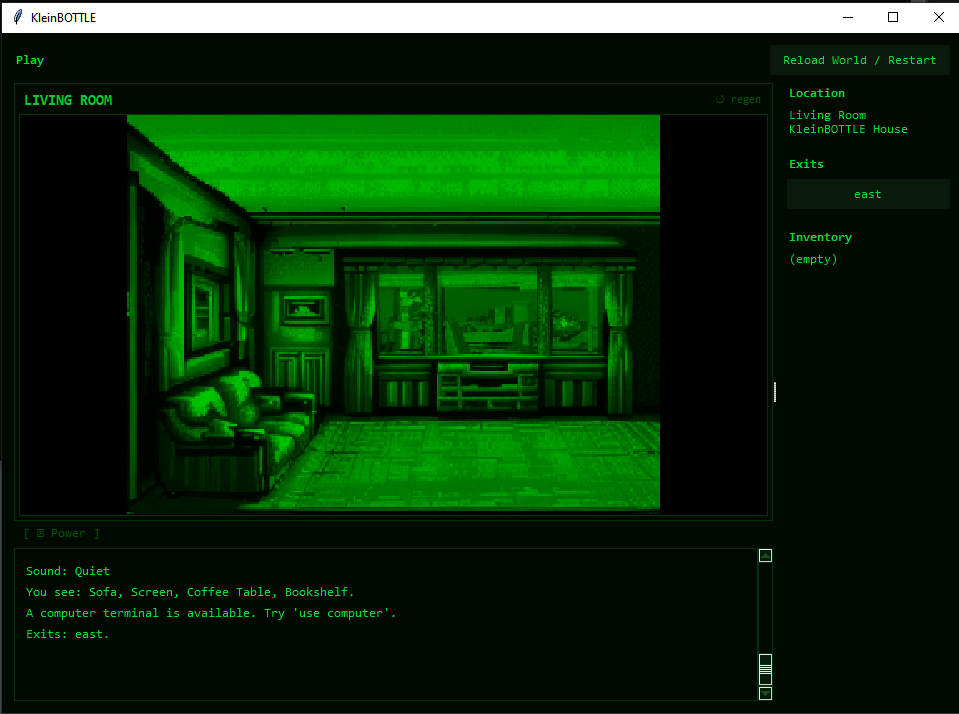
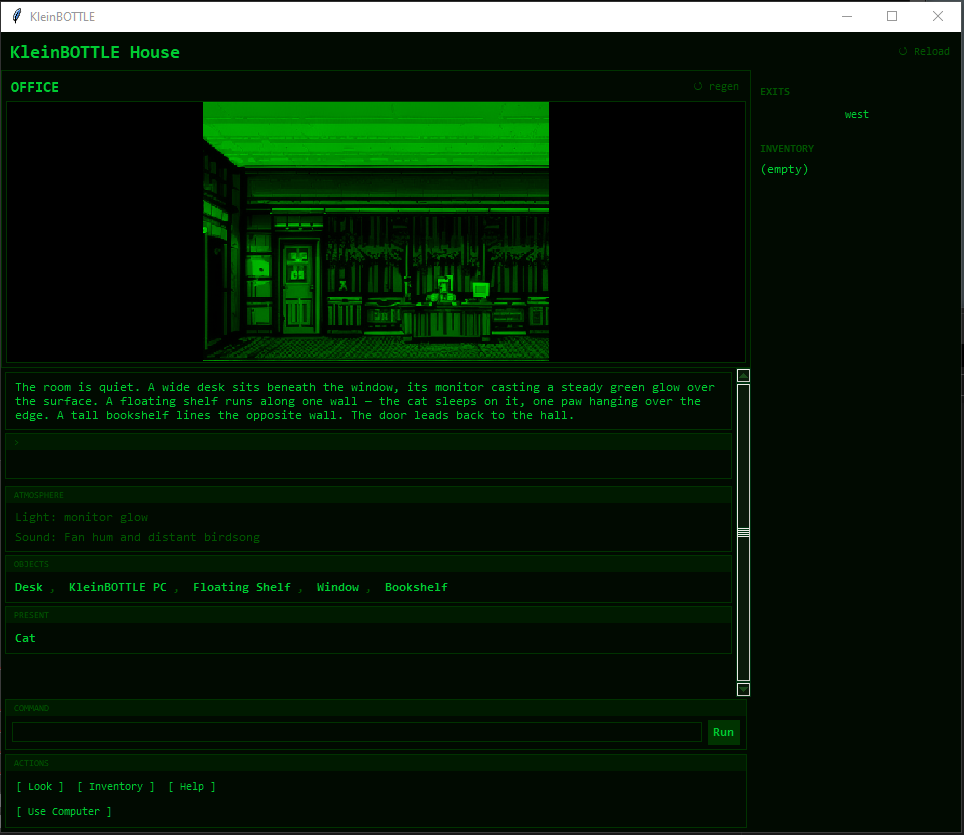
feat: add image-generation-pipeline submodule + Image Generator app in KleinPC
- Add tools/image-pipeline as git submodule (github.com/jacobmentalconstruct/image-generation-pipeline)
- kleinos/image_gen_pane.py: new ImageGenPane + ImageGenerator KleinApp
  - Prompt entry, style selector (default/kleinbottle/projectmapper), Generate button
  - Background thread worker via pipeline/client.py + pipeline/styles.py
  - PIL image display on canvas with resize handling
  - Saves output to data/generated/
- kleinos/__main__.py: register ImageGenerator in KleinPC apps list
- kleinos/room_panel.py: fall back to submodule path when config path is unset
- kleinos/config.py: set image_pipeline github_url to actual repo
- assets/logos/klein-bottle-logo.jpg: add real KleinBOTTLE logo
- assets/screenshots: update splash, living-room; add klein-invaders, nesting-dolls

diff --git a/kleinos/image_gen_pane.py b/kleinos/image_gen_pane.py
@@ -1,0 +1,201 @@
+"""
+kleinos/image_gen_pane.py
+
+In-PC image generator — KleinApp that wraps the image-generation-pipeline
+submodule (tools/image-pipeline/) with a simple GUI.
+
+Prompt input → style selector → Generate button → live status → image display.
+"""
+from __future__ import annotations
+
+import shutil
+import sys
+import threading
+import tkinter as tk
+from pathlib import Path
+from typing import Optional
+
+from kleinos.klein_app import KleinApp
+from kleinos.room_panel import _pipeline_root
+
+try:
+    from PIL import Image as _PilImage, ImageTk as _PilImageTk  # type: ignore[import-untyped]
+    _NEAREST = getattr(getattr(_PilImage, "Resampling", _PilImage), "NEAREST", 0)
+    _PILLOW = True
+except ImportError:
+    _PilImage = _PilImageTk = None  # type: ignore[assignment]
+    _NEAREST = 0
+    _PILLOW = False
+
+_BG     = "#010a01"
+_BORDER = "#003300"
+_FG     = "#00cc33"
+_DIM    = "#005500"
+_HDR_BG = "#001a00"
+
+_OUT_DIR = Path(__file__).resolve().parent.parent / "data" / "generated"
+_STYLES  = ("default", "kleinbottle", "projectmapper")
+
+
+def _mk_btn(parent: tk.Widget, text: str, command, fg: str = _FG) -> tk.Button:
+    return tk.Button(
+        parent, text=text, bg=_BG, fg=fg,
+        activebackground="#001a00", activeforeground=_FG,
+        relief="flat", font=("Consolas", 9, "bold"),
+        cursor="hand2", command=command,
+    )
+
+
+class ImageGenPane(tk.Frame):
+    """Full image-generator panel for embedding in the KleinPC content area."""
+
+    def __init__(self, parent: tk.Widget, on_exit=None):
+        super().__init__(parent, bg=_BG)
+        self._on_exit = on_exit
+        self._photo: Optional[object] = None
+        self._busy  = False
+        self._build()
+
+    def _build(self) -> None:
+        # ── Header ────────────────────────────────────────────────────
+        hdr = tk.Frame(self, bg=_HDR_BG)
+        hdr.pack(fill="x")
+        tk.Label(hdr, text=" IMAGE GENERATOR ", bg=_HDR_BG, fg=_FG,
+                 font=("Consolas", 10, "bold")).pack(side="left", padx=8, pady=6)
+
+        # ── Prompt row ────────────────────────────────────────────────
+        pr = tk.Frame(self, bg=_BG)
+        pr.pack(fill="x", padx=8, pady=(10, 4))
+        tk.Label(pr, text="PROMPT", bg=_BG, fg=_DIM,
+                 font=("Consolas", 8)).pack(anchor="w")
+        self._prompt_var = tk.StringVar()
+        tk.Entry(
+            pr, textvariable=self._prompt_var,
+            bg=_BG, fg=_FG, insertbackground=_FG,
+            font=("Consolas", 9), relief="flat",
+            highlightthickness=1, highlightbackground=_BORDER,
+            highlightcolor=_FG,
+        ).pack(fill="x", pady=(2, 0))
+
+        # ── Style + Generate row ──────────────────────────────────────
+        ctrl = tk.Frame(self, bg=_BG)
+        ctrl.pack(fill="x", padx=8, pady=4)
+        tk.Label(ctrl, text="STYLE", bg=_BG, fg=_DIM,
+                 font=("Consolas", 8)).pack(side="left")
+        self._style_var = tk.StringVar(value="kleinbottle")
+        style_menu = tk.OptionMenu(ctrl, self._style_var, *_STYLES)
+        style_menu.configure(
+            bg=_BG, fg=_FG, activebackground=_HDR_BG, activeforeground=_FG,
+            highlightthickness=0, relief="flat", font=("Consolas", 9),
+        )
+        style_menu["menu"].configure(bg=_BG, fg=_FG, activebackground=_HDR_BG)
+        style_menu.pack(side="left", padx=(6, 16))
+        self._gen_btn = _mk_btn(ctrl, "[ Generate ]", self._generate)
+        self._gen_btn.pack(side="left")
+
+        # ── Status ────────────────────────────────────────────────────
+        self._status_var = tk.StringVar(value="Ready.")
+        tk.Label(self, textvariable=self._status_var,
+                 bg=_BG, fg=_DIM, font=("Consolas", 8),
+                 anchor="w").pack(fill="x", padx=10, pady=(0, 4))
+
+        # ── Image canvas ──────────────────────────────────────────────
+        self._canvas = tk.Canvas(self, bg="#000000",
+                                 highlightthickness=1, highlightbackground=_BORDER)
+        self._canvas.pack(fill="both", expand=True, padx=8, pady=(0, 8))
+        self._canvas.bind("<Configure>", self._on_resize)
+
+    # ── Generation ────────────────────────────────────────────────────
+
+    def _generate(self) -> None:
+        prompt = self._prompt_var.get().strip()
+        if not prompt:
+            self._status("Enter a prompt first.")
+            return
+        if self._busy:
+            self._status("Already generating…")
+            return
+        self._busy = True
+        self._gen_btn.configure(state="disabled")
+        self._status("Queuing…")
+        threading.Thread(
+            target=self._worker,
+            args=(prompt, self._style_var.get()),
+            daemon=True,
+        ).start()
+
+    def _worker(self, prompt: str, style: str) -> None:
+        import uuid
+        try:
+            root = _pipeline_root()
+            if str(root) not in sys.path:
+                sys.path.insert(0, str(root))
+            from pipeline.client import collect_images, queue_prompt, wait_for_completion  # type: ignore[import]
+            from pipeline.styles import build_workflow  # type: ignore[import]
+
+            self.after(0, lambda: self._status("Building workflow…"))
+            workflow, _ = build_workflow(prompt, style)
+            pid = queue_prompt(workflow, str(uuid.uuid4()))
+            self.after(0, lambda: self._status(f"Generating (id={pid[:8]}…)"))
+            result = wait_for_completion(pid, timeout=300.0)
+
+            _OUT_DIR.mkdir(parents=True, exist_ok=True)
+            tmp = _OUT_DIR / "_tmp"
+            tmp.mkdir(exist_ok=True)
+            saved = collect_images(result, tmp)
+            if saved:
+                dest = _OUT_DIR / saved[0].name
+                shutil.move(str(saved[0]), str(dest))
+                self.after(0, lambda p=dest: self._show(p))
+                self.after(0, lambda: self._status(f"Saved → {dest.name}"))
+            else:
+                self.after(0, lambda: self._status("No image returned."))
+        except Exception as exc:
+            msg = str(exc)[:120]
+            self.after(0, lambda: self._status(f"Error: {msg}"))
+        finally:
+            self._busy = False
+            self.after(0, lambda: self._gen_btn.configure(state="normal"))
+
+    # ── Display ───────────────────────────────────────────────────────
+
+    def _show(self, path: Path) -> None:
+        if not _PILLOW:
+            self._status("Pillow not installed — pip install pillow")
+            return
+        try:
+            w = self._canvas.winfo_width()
+            h = self._canvas.winfo_height()
+            if w < 2 or h < 2:
+                self.after(50, lambda: self._show(path))
+                return
+            img = _PilImage.open(path)  # type: ignore[union-attr]
+            iw, ih = img.size
+            scale = min(w / iw, h / ih)
+            img = img.resize((int(iw * scale), int(ih * scale)), _NEAREST)  # type: ignore[union-attr]
+            self._photo = _PilImageTk.PhotoImage(img)  # type: ignore[union-attr]
+            self._canvas.delete("all")
+            self._canvas.create_image(w // 2, h // 2, anchor="center", image=self._photo)
+            self._last_path = path
+        except Exception as exc:
+            self._status(f"Display error: {exc}")
+
+    def _on_resize(self, _=None) -> None:
+        if hasattr(self, "_last_path") and self._last_path:
+            self._show(self._last_path)
+
+    def _status(self, text: str) -> None:
+        self._status_var.set(text)
+
+
+# ── KleinApp registration ─────────────────────────────────────────────
+
+class ImageGenerator(KleinApp):
+    title       = "Image Generator"
+    description = "Generate images with ComfyUI via the KleinBOTTLE pipeline."
+
+    def commands(self):  # type: ignore[override]
+        return []
+
+    def create(self, parent: tk.Widget, on_exit) -> tk.Widget:  # type: ignore[override]
+        return ImageGenPane(parent, on_exit=on_exit)

diff --git a/kleinos/__main__.py b/kleinos/__main__.py
@@ -22,6 +22,7 @@ from kleinos.game_pane import SpaceInvaders
 from kleinos.kb_surfaces import WorldBuilder, TextAdventure, KleinAdventurePane
 from kleinos.adventure import TheShack
 from kleinos.mahisland import MAHisLAND
+from kleinos.image_gen_pane import ImageGenerator
 from kleinos.palette import BG as _BG, GM_BRIGHT as _BRIGHT, GM_MID as _MID, FG_DIM as _DIM
 
 _SPLASH_PATH = _KB_ROOT / "assets" / "logos" / "klein-bottle-logo.jpg"
@@ -151,7 +152,7 @@ class TitleScreen(tk.Canvas):
 def _make_pc(root: tk.Tk) -> KleinPC:
     return KleinPC(
         root,
-        apps=[WorldBuilder(), OllamaChat(), NotesApp()],
+        apps=[WorldBuilder(), OllamaChat(), ImageGenerator(), NotesApp()],
         games=[MAHisLAND(), TheShack(), TextAdventure(), SpaceInvaders()],
         title="KleinBOTTLE PC",
     )

diff --git a/kleinos/room_panel.py b/kleinos/room_panel.py
@@ -36,6 +36,9 @@ except ImportError:
 
 _NEAREST = getattr(getattr(_PilImage, "Resampling", _PilImage), "NEAREST", 0)
 
+_SUBMODULE_PIPELINE = Path(__file__).resolve().parent.parent / "tools" / "image-pipeline"
+
+
 def _pipeline_root() -> Path:
     """Read pipeline path from config at call time so settings changes take effect."""
     try:
@@ -46,7 +49,7 @@ def _pipeline_root() -> Path:
             return Path(p)
     except Exception:
         pass
-    return Path(r"C:\Jacob\Apps & Tools\image-generation-pipeline")
+    return _SUBMODULE_PIPELINE
 _ROOMS_DIR = Path(__file__).resolve().parent.parent / "data" / "rooms"
 
 _BG        = "#010a01"

diff --git a/kleinos/config.py b/kleinos/config.py
@@ -23,8 +23,8 @@ _DEFAULTS: dict = {
     "palette": "green",
     "pc_size": "medium",
     "image_pipeline": {
-        "path": r"C:\Jacob\Apps & Tools\image-generation-pipeline",
-        "github_url": "",
+        "path": "",
+        "github_url": "https://github.com/jacobmentalconstruct/image-generation-pipeline.git",
     },
     "audio": {
         "enabled": True,
